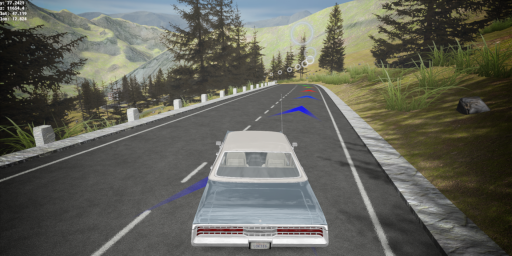
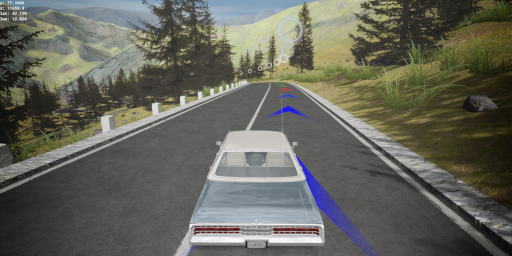
Continuous+White GH street

diff --git a/README.md b/README.md
@@ -26,7 +26,7 @@ A rally game based on OpenStreetMap data.
 ![Screenshot-R0-2023-02-25](media/Screenshot-R0-2023-02-25.png)
 
 ### Großglockner High Alpine Road
-![Screenshot-GH-2023-03-12b](media/Screenshot-GH-2023-03-12b.png)
+![Screenshot-GH-2023-03-12c](media/Screenshot-GH-2023-03-12c.png)
 
 ### New York City
 ![Screenshot-NYC-2022-04-23](media/Screenshot-NYC-2022-04-23.jpg)
